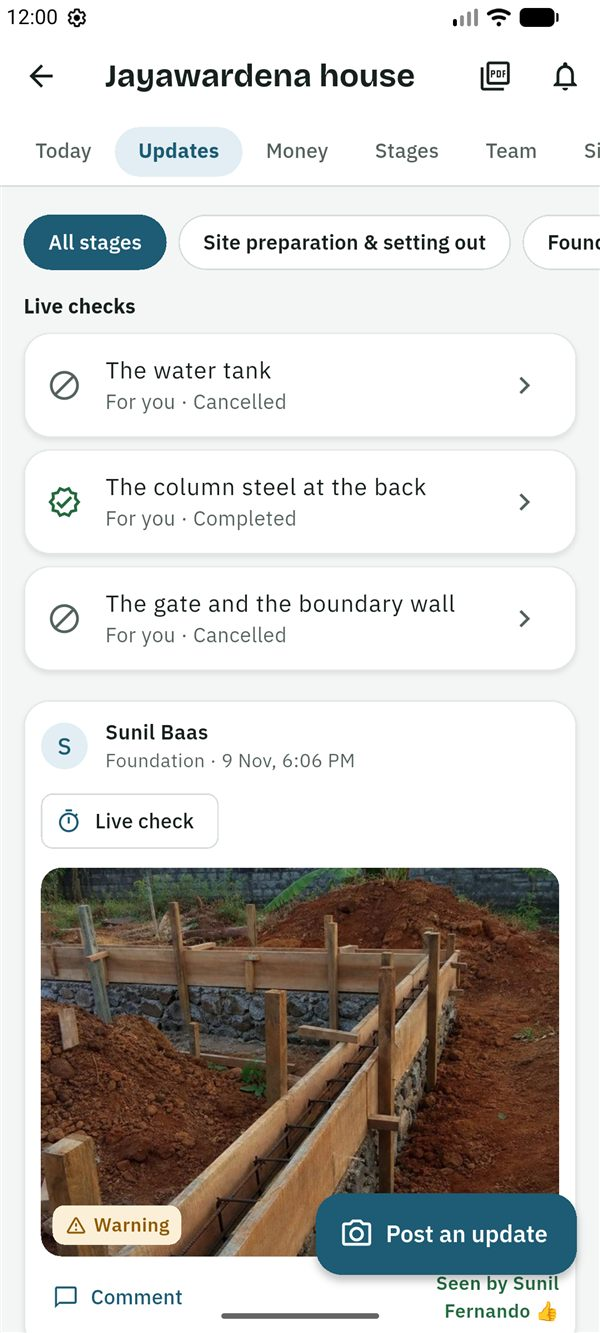
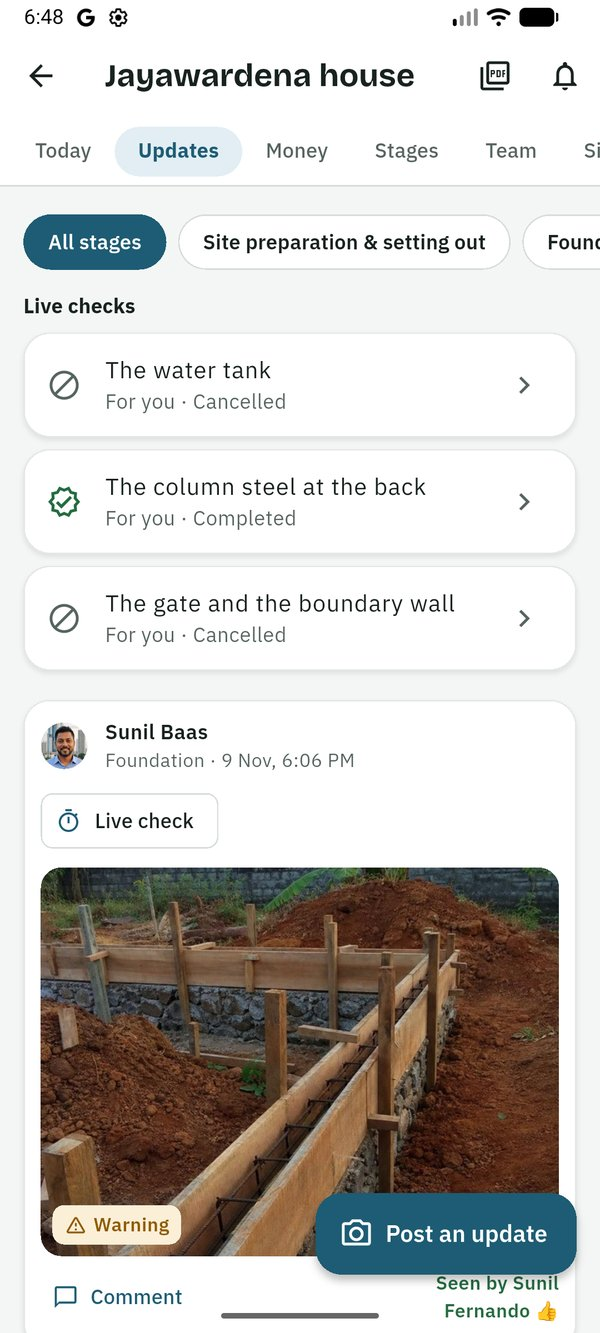
Publish site/ from b75460b Guides: screenshots with the test people's profile photos

diff --git a/README.md b/README.md
@@ -8,7 +8,7 @@ Served by GitHub Pages from the public repo `NMsanka/siteproof-site`:
 - https://nmsanka.github.io/siteproof-site/guides/: the user guides, one per role (owner, co-owner, family member on site, contractor, designer, viewer), in English and in Sinhala (`guides/si/`, a draft until a native speaker reviews it), with screenshots in `guides/img/`
 - `media/siteproof-promo.mp4`: the one-minute promo video on the home page (1080×1920), with its poster `media/siteproof-promo.jpg`
 
-The screenshots and the video were made on the Android emulator from the local test data, with realistic names and AI-generated site photos; the video's voice-over is OpenAI text-to-speech, so the page says it's AI-generated (OpenAI's usage policy asks for that).
+The screenshots and the video were made on the Android emulator from the local test data, with realistic names, AI-generated site photos and AI-generated profile photos of the two test people (OpenAI `gpt-image-2`, 13 Nov 2026); the video's voice-over is OpenAI text-to-speech, so the page says it's AI-generated (OpenAI's usage policy asks for that).
 
 These files are the source. They live in the main SiteProof repo and are published with
 `npm run site:publish` (scripts/publish-site.mjs), which pushes only this folder.
